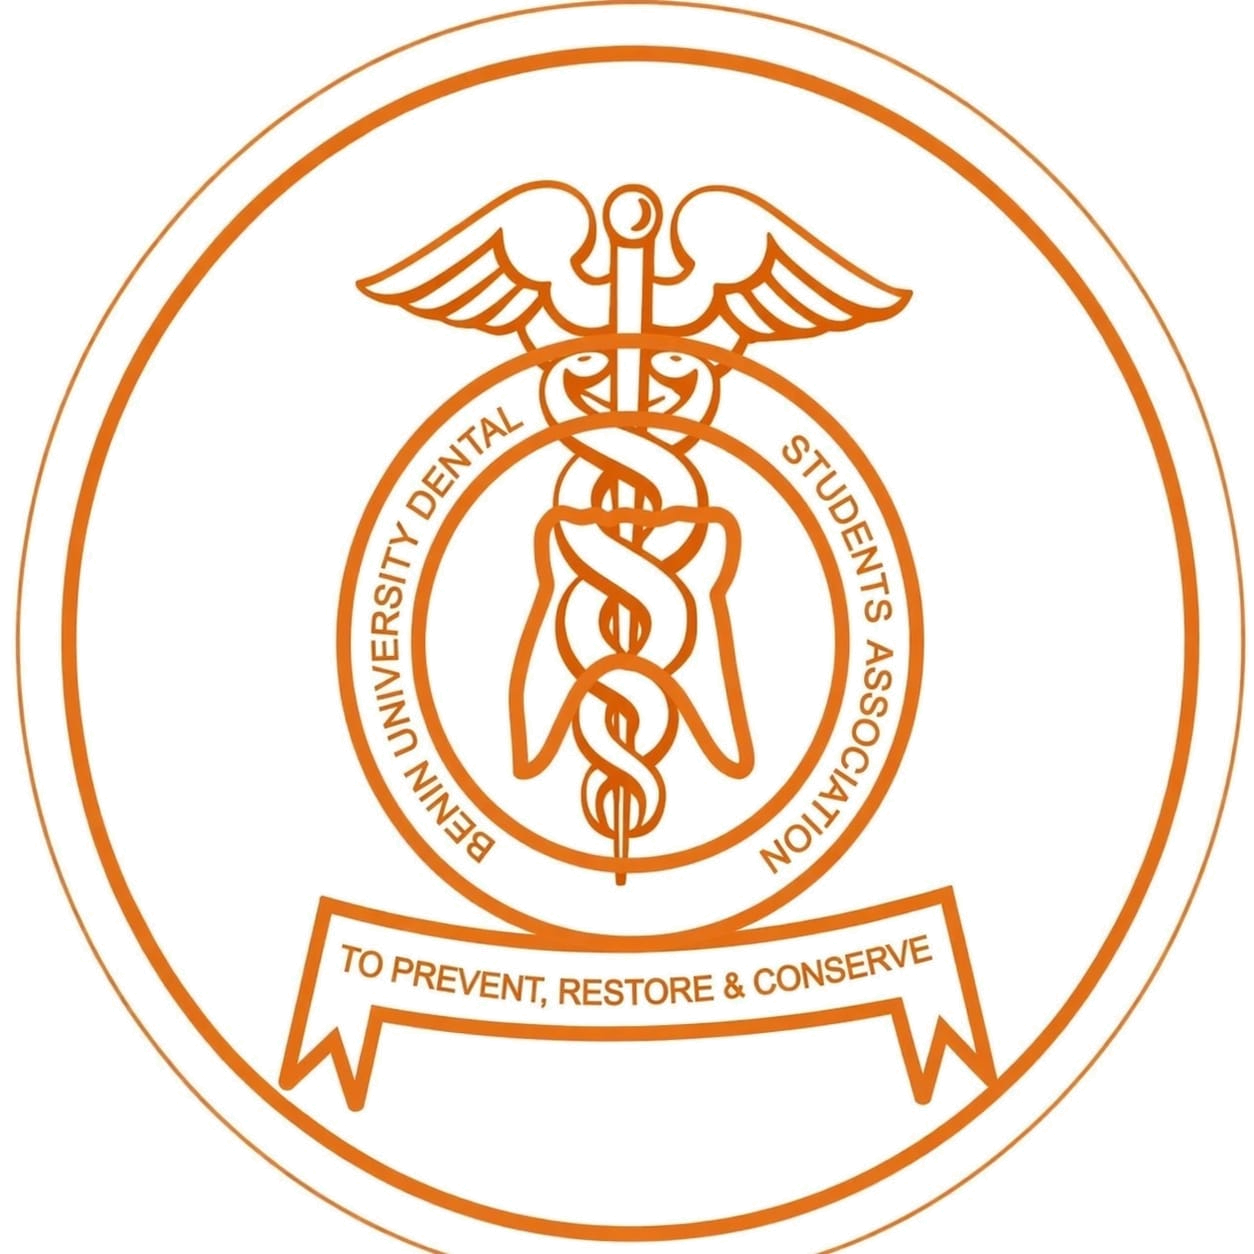
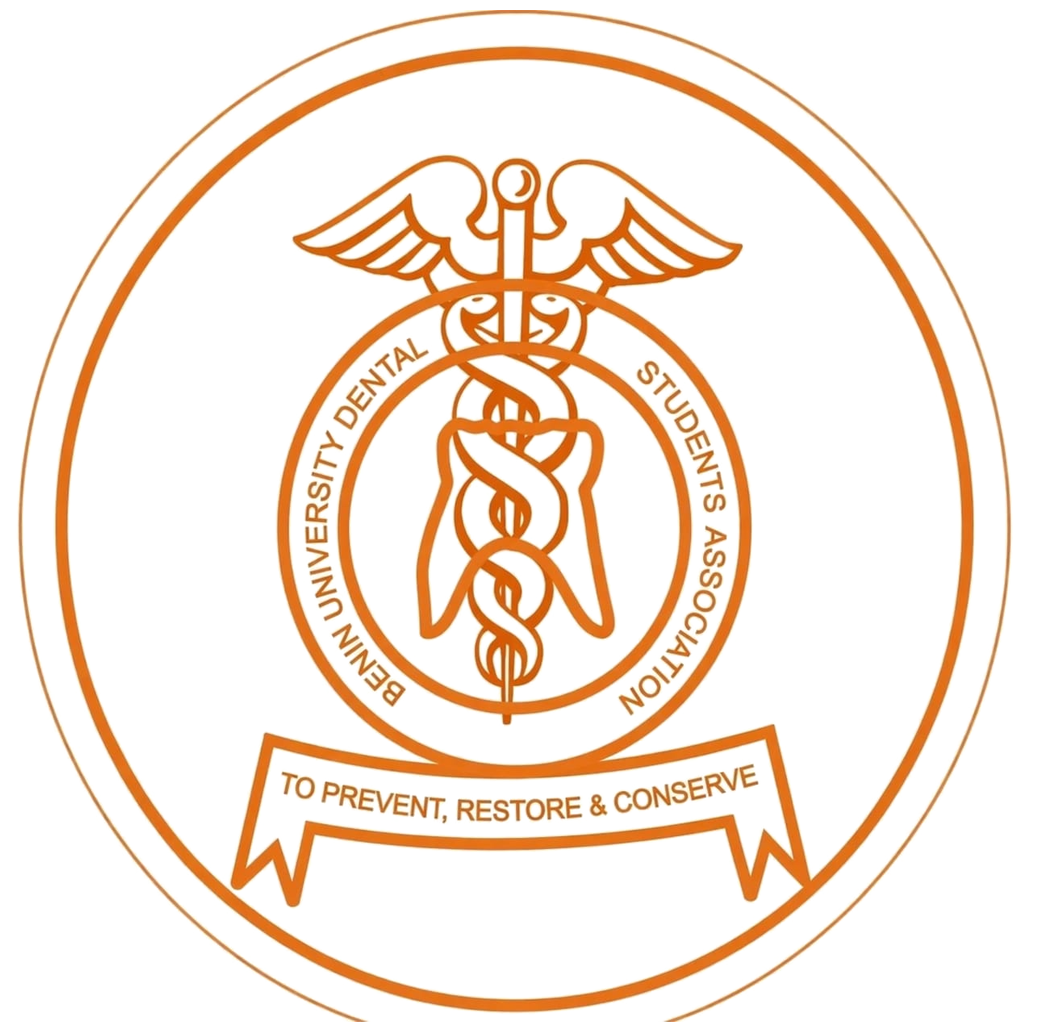
updating

Changed region(s): [[0.0, 0.0, 1.0, 1.0]]

diff --git a/main.css b/main.css
@@ -1889,12 +1889,12 @@ footer {
 
   .plogo {
     min-height: 90px;
-    padding: 16px;
+    padding: 10px;
   }
 
   .plogo img {
     width: 100%;
-    height: 44px;
+    /* height: 44px; */
   }
 
   .sp-actions {
